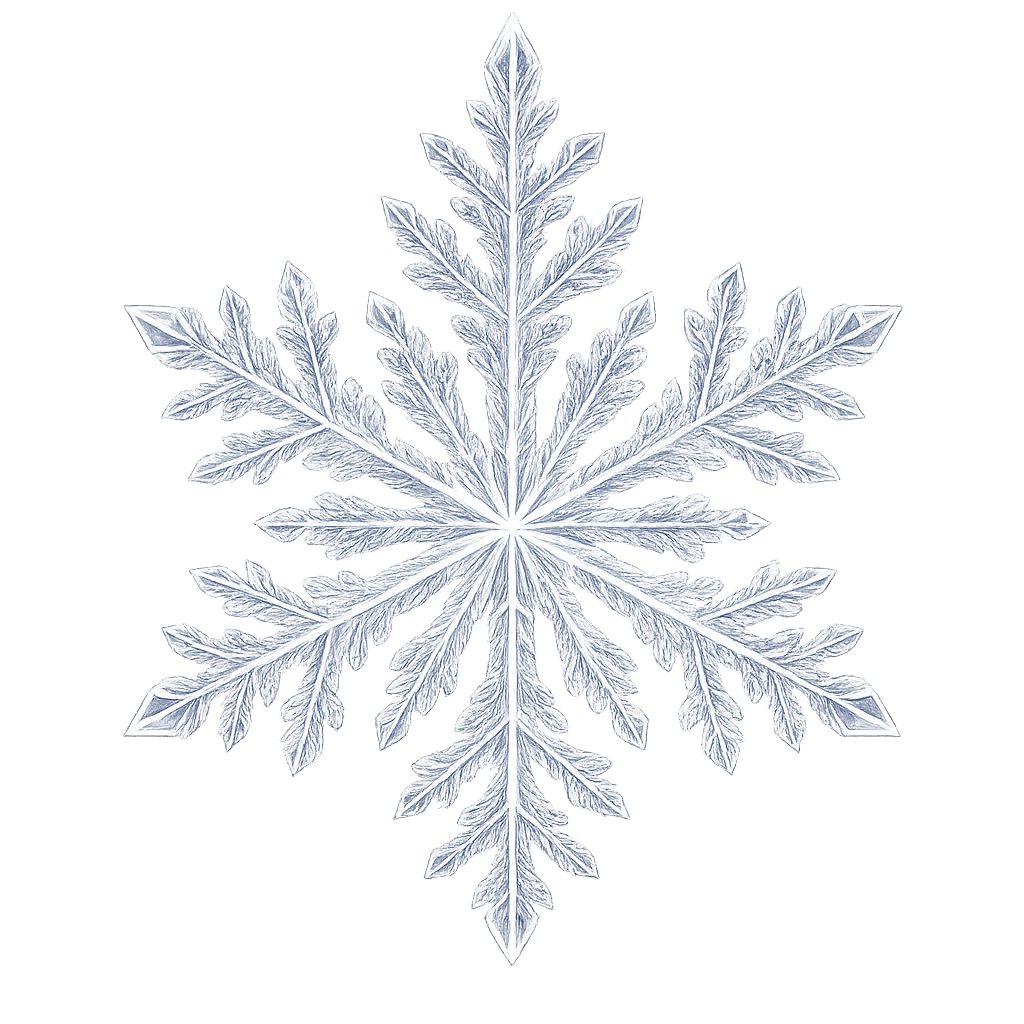
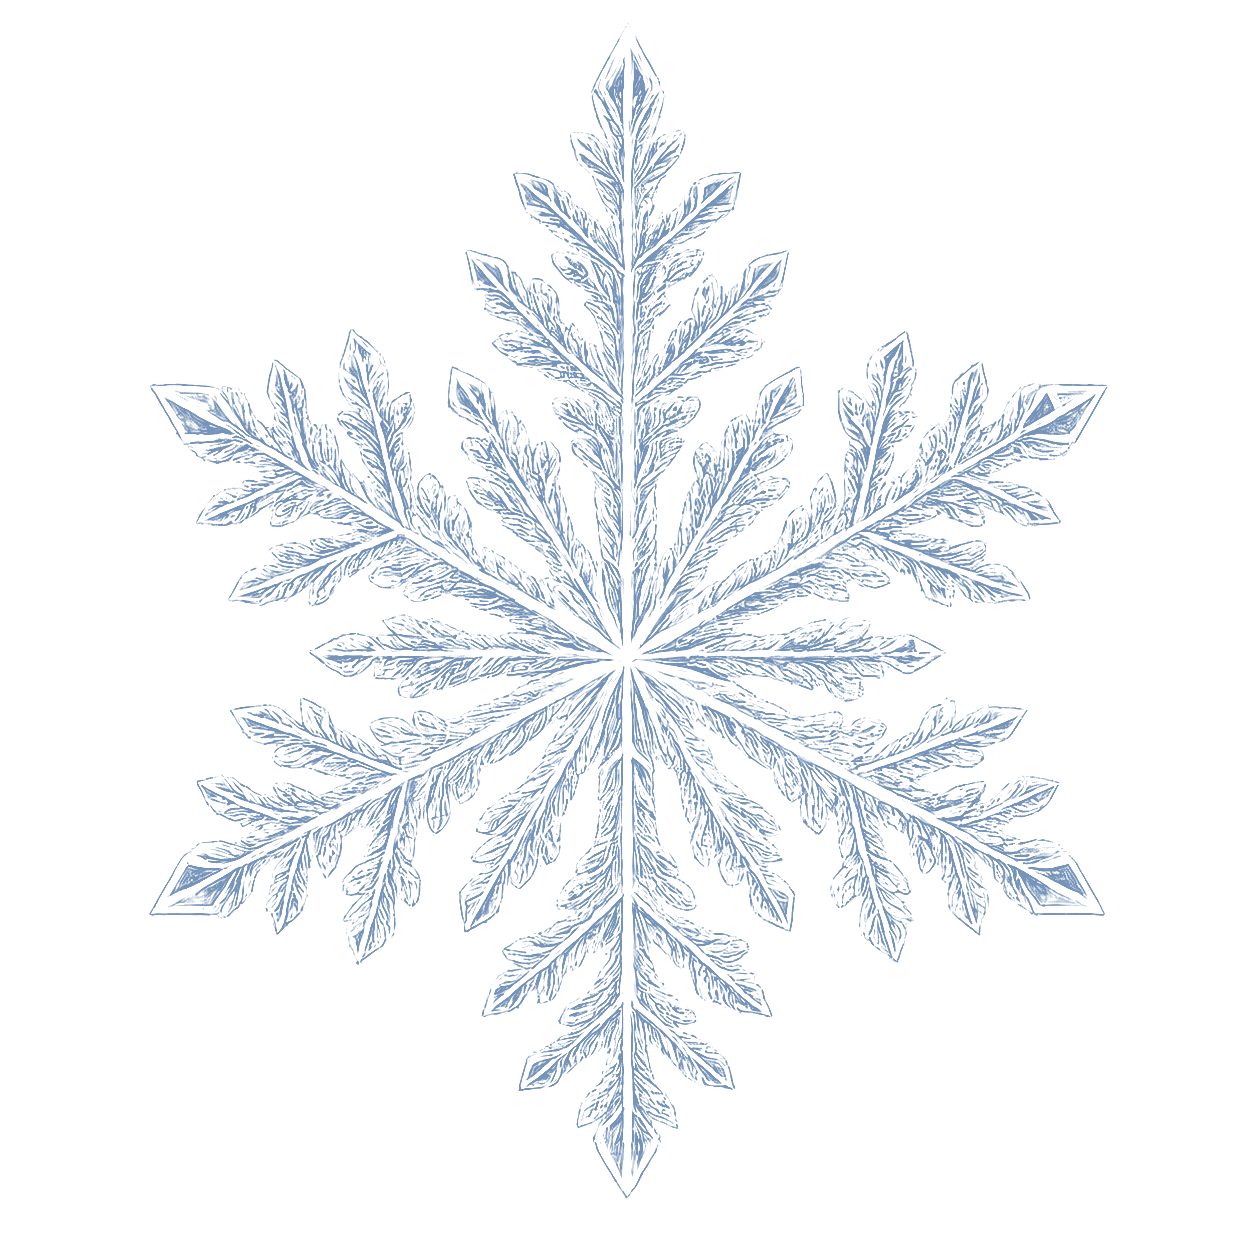
feat: simplify starter branding

Changed region(s): [[0.125, 0.0312, 0.875, 0.9375]]

diff --git a/templates/styles/css/App.css b/templates/styles/css/App.css
@@ -40,15 +40,6 @@
   letter-spacing: 0;
 }
 
-.brand-mark {
-  width: 34px;
-  height: 34px;
-  border: 1px solid #243d5d;
-  border-radius: 8px;
-  object-fit: cover;
-  background: #0b1018;
-}
-
 .app-nav {
   display: flex;
   align-items: center;
@@ -157,61 +148,17 @@ h1 span {
   background: #eefaff;
 }
 
-.hero-signal {
-  position: relative;
+.hero-mark-wrap {
   display: grid;
   min-height: 356px;
   place-items: center;
-  overflow: hidden;
-  border: 1px solid #203955;
-  border-radius: 8px;
-  background: #0c1625;
-  box-shadow: 0 24px 54px rgba(18, 45, 70, 0.19);
-}
-
-.hero-signal::before,
-.hero-signal::after {
-  position: absolute;
-  width: 260px;
-  height: 1px;
-  background: rgba(137, 219, 246, 0.34);
-  content: "";
-}
-
-.hero-signal::before {
-  transform: rotate(38deg);
-}
-
-.hero-signal::after {
-  transform: rotate(-38deg);
 }
 
 .hero-mark {
-  position: relative;
-  z-index: 1;
-  width: min(285px, 74%);
+  width: min(360px, 88%);
   aspect-ratio: 1;
   object-fit: cover;
-}
-
-.signal-caption {
-  position: absolute;
-  z-index: 1;
-  bottom: 22px;
-  display: flex;
-  align-items: center;
-  gap: 8px;
-  color: #d3eafa;
-  font-family: "SFMono-Regular", Consolas, monospace;
-  font-size: 11px;
-}
-
-.signal-dot {
-  width: 7px;
-  height: 7px;
-  border-radius: 50%;
-  background: #6be0c1;
-  box-shadow: 0 0 0 4px rgba(107, 224, 193, 0.13);
+  filter: drop-shadow(0 18px 24px rgba(40, 96, 130, 0.18));
 }
 
 .starter-grid {
@@ -289,7 +236,7 @@ code {
     order: 1;
   }
 
-  .hero-signal {
+  .hero-mark-wrap {
     order: 0;
     min-height: 260px;
   }

diff --git a/templates/styles/less/App.less b/templates/styles/less/App.less
@@ -40,15 +40,6 @@
   letter-spacing: 0;
 }
 
-.brand-mark {
-  width: 34px;
-  height: 34px;
-  border: 1px solid #243d5d;
-  border-radius: 8px;
-  object-fit: cover;
-  background: #0b1018;
-}
-
 .app-nav {
   display: flex;
   align-items: center;
@@ -157,61 +148,17 @@ h1 span {
   background: #eefaff;
 }
 
-.hero-signal {
-  position: relative;
+.hero-mark-wrap {
   display: grid;
   min-height: 356px;
   place-items: center;
-  overflow: hidden;
-  border: 1px solid #203955;
-  border-radius: 8px;
-  background: #0c1625;
-  box-shadow: 0 24px 54px rgba(18, 45, 70, 0.19);
-}
-
-.hero-signal::before,
-.hero-signal::after {
-  position: absolute;
-  width: 260px;
-  height: 1px;
-  background: rgba(137, 219, 246, 0.34);
-  content: "";
-}
-
-.hero-signal::before {
-  transform: rotate(38deg);
-}
-
-.hero-signal::after {
-  transform: rotate(-38deg);
 }
 
 .hero-mark {
-  position: relative;
-  z-index: 1;
-  width: min(285px, 74%);
+  width: min(360px, 88%);
   aspect-ratio: 1;
   object-fit: cover;
-}
-
-.signal-caption {
-  position: absolute;
-  z-index: 1;
-  bottom: 22px;
-  display: flex;
-  align-items: center;
-  gap: 8px;
-  color: #d3eafa;
-  font-family: "SFMono-Regular", Consolas, monospace;
-  font-size: 11px;
-}
-
-.signal-dot {
-  width: 7px;
-  height: 7px;
-  border-radius: 50%;
-  background: #6be0c1;
-  box-shadow: 0 0 0 4px rgba(107, 224, 193, 0.13);
+  filter: drop-shadow(0 18px 24px rgba(40, 96, 130, 0.18));
 }
 
 .starter-grid {
@@ -289,7 +236,7 @@ code {
     order: 1;
   }
 
-  .hero-signal {
+  .hero-mark-wrap {
     order: 0;
     min-height: 260px;
   }

diff --git a/templates/styles/scss/App.scss b/templates/styles/scss/App.scss
@@ -40,15 +40,6 @@
   letter-spacing: 0;
 }
 
-.brand-mark {
-  width: 34px;
-  height: 34px;
-  border: 1px solid #243d5d;
-  border-radius: 8px;
-  object-fit: cover;
-  background: #0b1018;
-}
-
 .app-nav {
   display: flex;
   align-items: center;
@@ -157,61 +148,17 @@ h1 span {
   background: #eefaff;
 }
 
-.hero-signal {
-  position: relative;
+.hero-mark-wrap {
   display: grid;
   min-height: 356px;
   place-items: center;
-  overflow: hidden;
-  border: 1px solid #203955;
-  border-radius: 8px;
-  background: #0c1625;
-  box-shadow: 0 24px 54px rgba(18, 45, 70, 0.19);
-}
-
-.hero-signal::before,
-.hero-signal::after {
-  position: absolute;
-  width: 260px;
-  height: 1px;
-  background: rgba(137, 219, 246, 0.34);
-  content: "";
-}
-
-.hero-signal::before {
-  transform: rotate(38deg);
-}
-
-.hero-signal::after {
-  transform: rotate(-38deg);
 }
 
 .hero-mark {
-  position: relative;
-  z-index: 1;
-  width: min(285px, 74%);
+  width: min(360px, 88%);
   aspect-ratio: 1;
   object-fit: cover;
-}
-
-.signal-caption {
-  position: absolute;
-  z-index: 1;
-  bottom: 22px;
-  display: flex;
-  align-items: center;
-  gap: 8px;
-  color: #d3eafa;
-  font-family: "SFMono-Regular", Consolas, monospace;
-  font-size: 11px;
-}
-
-.signal-dot {
-  width: 7px;
-  height: 7px;
-  border-radius: 50%;
-  background: #6be0c1;
-  box-shadow: 0 0 0 4px rgba(107, 224, 193, 0.13);
+  filter: drop-shadow(0 18px 24px rgba(40, 96, 130, 0.18));
 }
 
 .starter-grid {
@@ -289,7 +236,7 @@ code {
     order: 1;
   }
 
-  .hero-signal {
+  .hero-mark-wrap {
     order: 0;
     min-height: 260px;
   }

diff --git a/templates/styles/css/page.css b/templates/styles/css/page.css
@@ -52,16 +52,13 @@ h1 span {
   min-height: 300px;
   display: grid;
   place-items: center;
-  overflow: hidden;
-  border: 1px solid #203955;
-  border-radius: 8px;
-  background: #0c1625;
 }
 
 .page-mark img {
-  width: min(238px, 72%);
+  width: min(290px, 82%);
   aspect-ratio: 1;
   object-fit: cover;
+  filter: drop-shadow(0 18px 24px rgba(40, 96, 130, 0.18));
 }
 
 .page-grid {

diff --git a/templates/styles/less/page.less b/templates/styles/less/page.less
@@ -52,16 +52,13 @@ h1 span {
   min-height: 300px;
   display: grid;
   place-items: center;
-  overflow: hidden;
-  border: 1px solid #203955;
-  border-radius: 8px;
-  background: #0c1625;
 }
 
 .page-mark img {
-  width: min(238px, 72%);
+  width: min(290px, 82%);
   aspect-ratio: 1;
   object-fit: cover;
+  filter: drop-shadow(0 18px 24px rgba(40, 96, 130, 0.18));
 }
 
 .page-grid {

diff --git a/templates/styles/scss/page.scss b/templates/styles/scss/page.scss
@@ -52,16 +52,13 @@ h1 span {
   min-height: 300px;
   display: grid;
   place-items: center;
-  overflow: hidden;
-  border: 1px solid #203955;
-  border-radius: 8px;
-  background: #0c1625;
 }
 
 .page-mark img {
-  width: min(238px, 72%);
+  width: min(290px, 82%);
   aspect-ratio: 1;
   object-fit: cover;
+  filter: drop-shadow(0 18px 24px rgba(40, 96, 130, 0.18));
 }
 
 .page-grid {

diff --git a/PLAN.md b/PLAN.md
@@ -32,3 +32,4 @@
 - [x] Compact interactive feature selection, expose built-in and saved user presets, and preserve exact project-directory input.
 - [x] Refresh generated application starter screens with the official ElfUI mark, responsive workspace layout, and useful Router landing pages.
 - [x] Let creators start the generated application and open it in a browser directly from the creation flow.
+- [x] Simplify generated starter branding to one transparent snowflake mark without a dark image panel.

diff --git a/.changeset/simplify-starter-snowflake.md b/.changeset/simplify-starter-snowflake.md
@@ -1,0 +1,5 @@
+---
+"create-elfui": minor
+---
+
+Simplify generated application starter branding with a single transparent snowflake mark on light pages.
